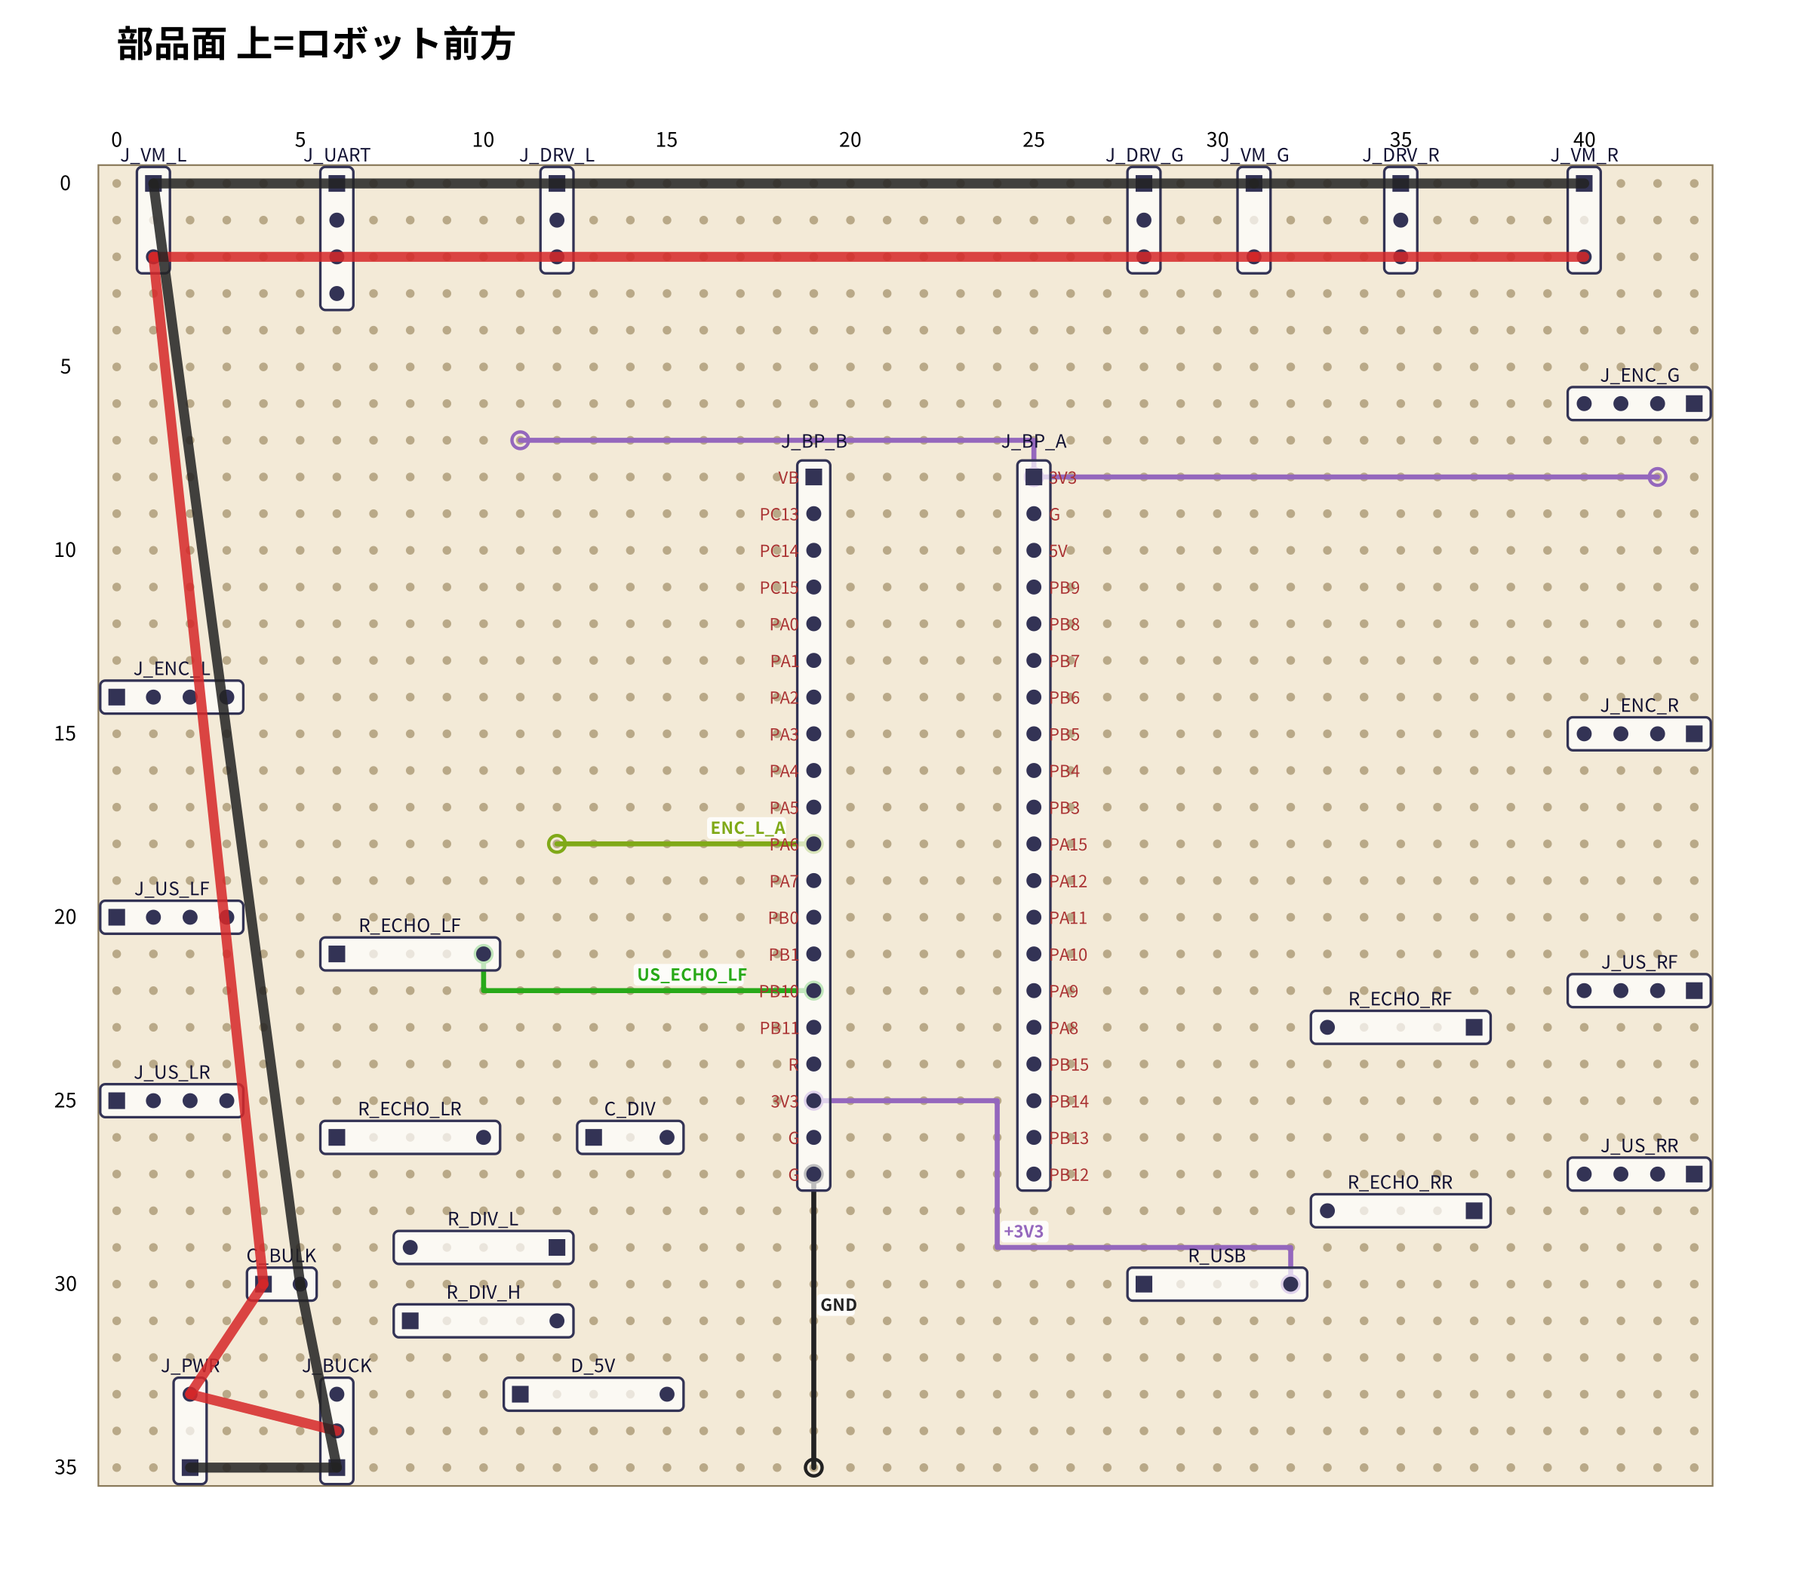
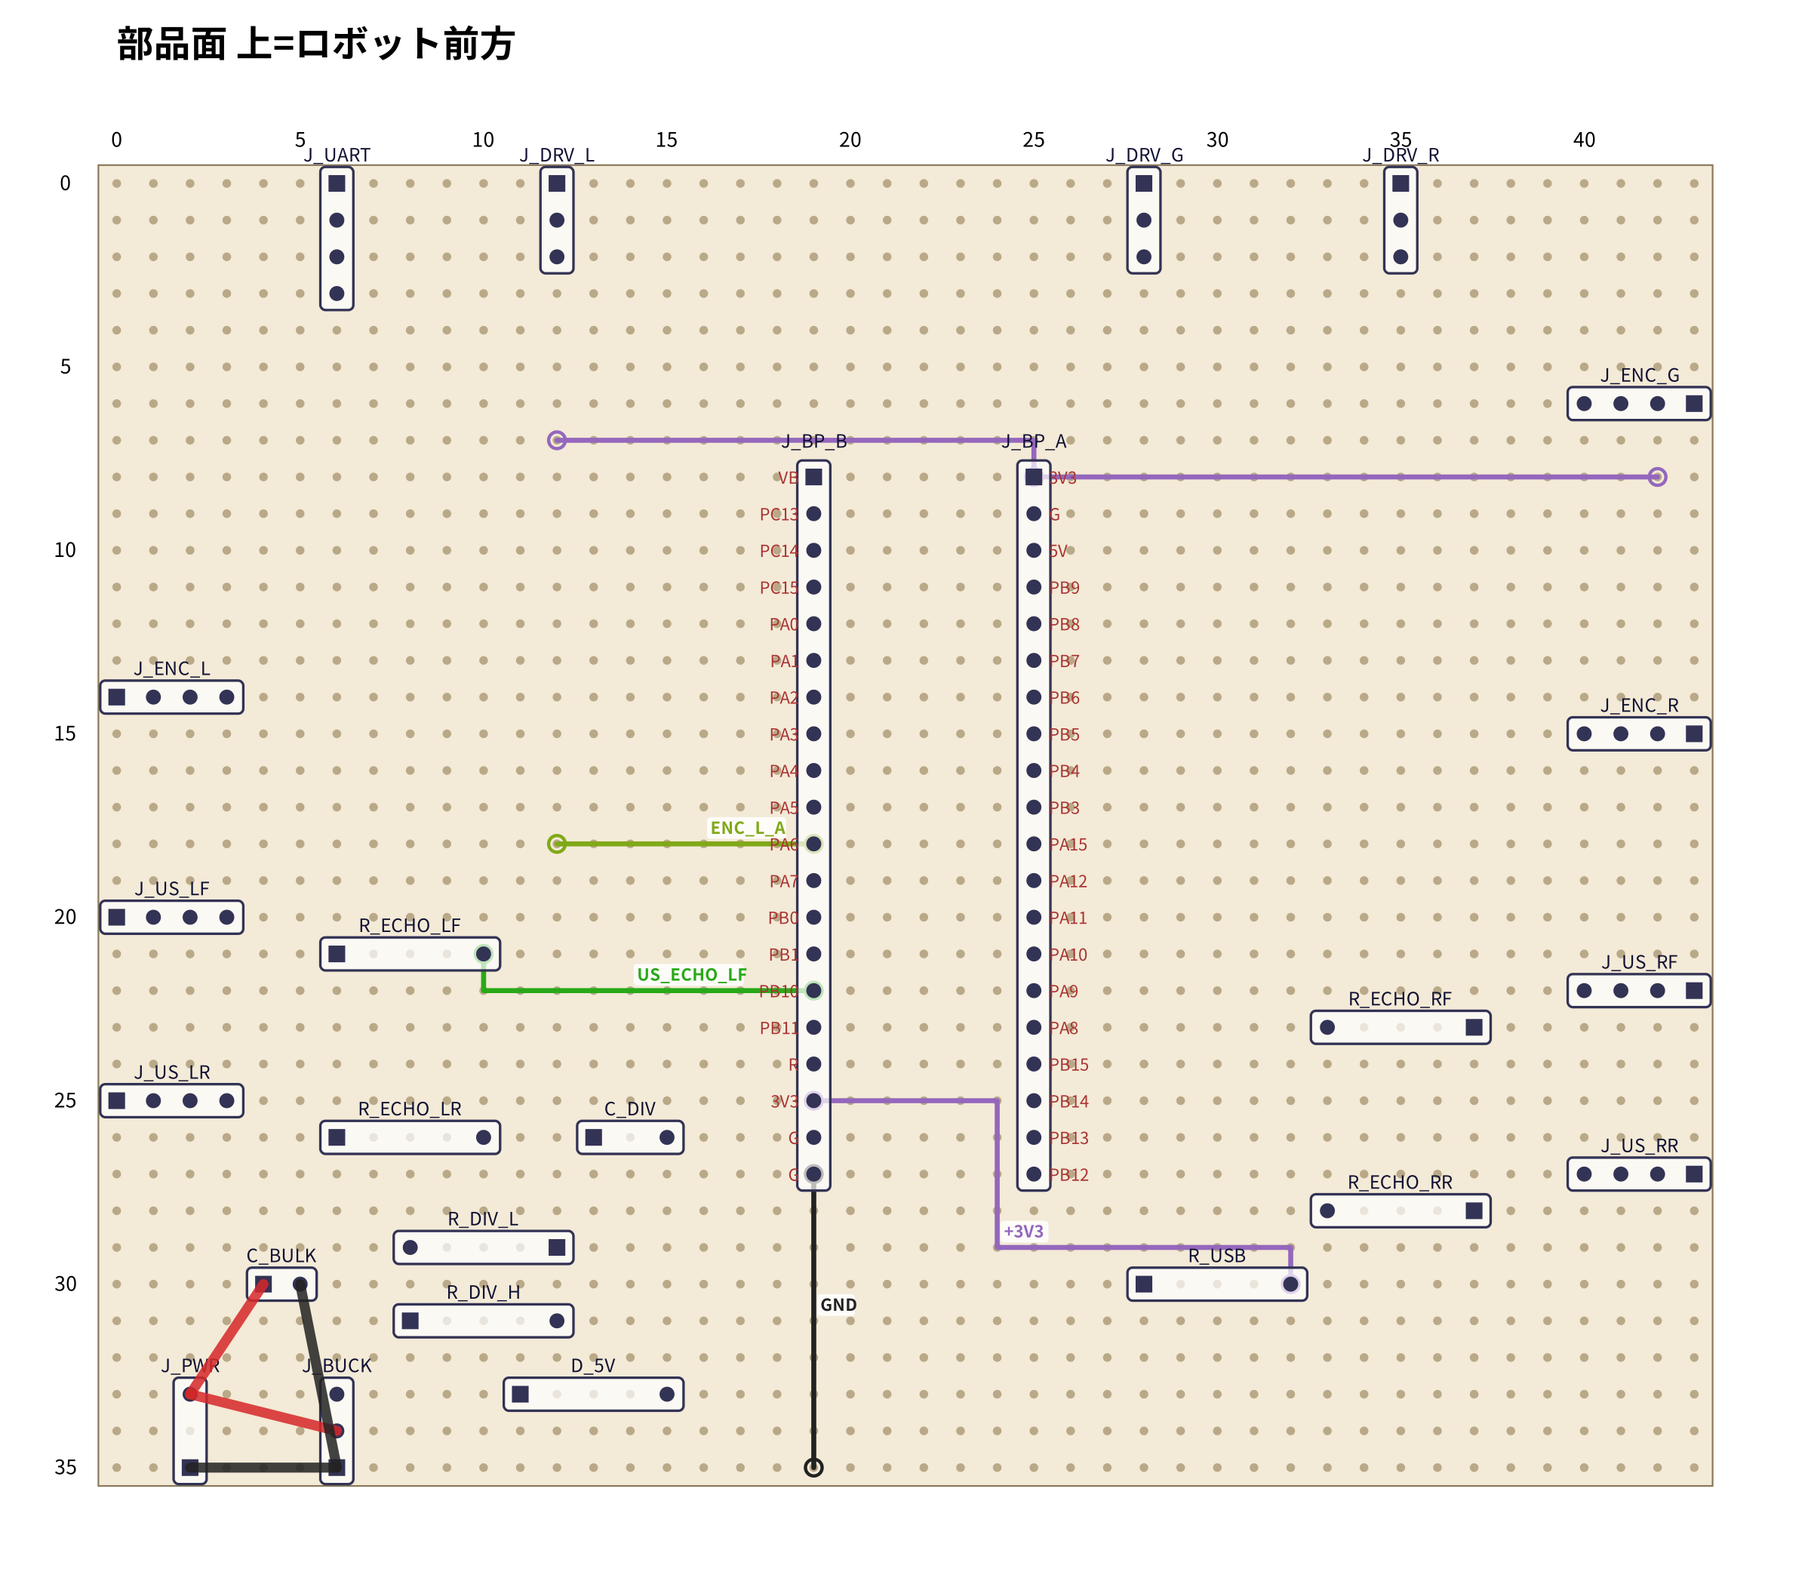
electrical: feed the drivers straight from the battery, not via the board
The DRV8871 modules take battery power on their own terminals, wired from
the branch after the e-stop. The board loses J_VM_L/G/R; its power input
now only feeds the buck module and the battery sense, so the AWG18 chain
shrinks to J_PWR, C_BULK and J_BUCK (4 wires instead of 10).

Claude-Session: https://claude.ai/code/session_01ENsByEFNd15FuMFFPy7PpL

Changed region(s): [[0.0625, 0.0929, 0.9062, 0.8051], [0.2812, 0.2477, 0.3125, 0.2787]]

diff --git a/electrical/netlist.py b/electrical/netlist.py
@@ -76,8 +76,6 @@ def _build_parts() -> list[Part]:
         _conn("J_PWR", "VBAT in", ["GND", "VBAT"], _TB2),
     ]
     for m in ("L", "R", "G"):
-        parts.append(_conn(f"J_VM_{m}", "Driver VM", ["GND", "VBAT"], _TB2))
-    for m in ("L", "R", "G"):
         parts.append(_conn(f"J_DRV_{m}", "Driver IN", ["GND", f"{m}_IN1", f"{m}_IN2"], _XH.format(n=3)))
     for m in ("L", "R", "G"):
         parts.append(_conn(f"J_ENC_{m}", "Encoder", ["GND", "+3V3", f"ENC_{m}_A", f"ENC_{m}_B"], _XH.format(n=4)))
@@ -133,13 +131,10 @@ PLACEMENT: dict[str, tuple[int, int, int]] = {
     "J_BP_B": (19, 8, 90),
     "J_BP_A": (25, 8, 90),
     # front edge (pins run toward the rear)
-    "J_VM_L": (1, 0, 90),
     "J_UART": (6, 0, 90),
     "J_DRV_L": (12, 0, 90),
     "J_DRV_G": (28, 0, 90),
-    "J_VM_G": (31, 0, 90),
     "J_DRV_R": (35, 0, 90),
-    "J_VM_R": (40, 0, 90),
     # left edge (pins run inward)
     "J_ENC_L": (0, 14, 0),
     "J_US_LF": (0, 20, 0),
@@ -166,7 +161,7 @@ PLACEMENT: dict[str, tuple[int, int, int]] = {
 }
 
 # Hole step between consecutive pin numbers.
-_PIN_STEP = {"J_PWR": 2, "J_VM_L": 2, "J_VM_R": 2, "J_VM_G": 2,
+_PIN_STEP = {"J_PWR": 2,
              "R_": 4, "D_5V": 4, "C_DIV": 2, "C_BULK": 1}
 
 _DIRS = {0: (1, 0), 90: (0, 1), 180: (-1, 0), 270: (0, -1)}

diff --git a/electrical/tests/test_perfboard.py b/electrical/tests/test_perfboard.py
@@ -21,7 +21,7 @@ def test_bluepill_rows_are_15_24mm_apart():
 
 def test_cable_connectors_on_board_edge():
     for p in PARTS:
-        if p.ref.startswith(("J_ENC", "J_US", "J_DRV", "J_VM", "J_PWR", "J_BUCK")):
+        if p.ref.startswith(("J_ENC", "J_US", "J_DRV", "J_PWR", "J_BUCK")):
             holes = [pin_hole(p.ref, pin) for pin in p.pins]
             assert any(c in (0, BOARD_HOLES[0] - 1) or r in (0, BOARD_HOLES[1] - 1) for c, r in holes), p.ref
 
@@ -30,7 +30,7 @@ def test_cable_connectors_have_ground_on_the_board_edge():
     # pin 1 of every cable connector is GND and sits on the perimeter, so one bare ring wire picks them all up
     cols, rows = BOARD_HOLES
     for p in PARTS:
-        if p.ref.startswith(("J_ENC", "J_US", "J_DRV", "J_VM", "J_PWR", "J_BUCK", "J_UART")):
+        if p.ref.startswith(("J_ENC", "J_US", "J_DRV", "J_PWR", "J_BUCK", "J_UART")):
             assert p.pins["1"] == "GND", p.ref
             c, r = pin_hole(p.ref, "1")
             assert c in (0, cols - 1) or r in (0, rows - 1), p.ref

diff --git a/electrical/route.py b/electrical/route.py
@@ -26,7 +26,7 @@ _LAYERS = (BOTTOM, TOP)
 
 HEAVY_NETS = ("VBAT", "GND")
 POWER_ROOT = "J_PWR"
-POWER_REFS = ("J_PWR", "J_VM_L", "J_VM_G", "J_VM_R", "J_BUCK", "C_BULK")
+POWER_REFS = ("J_PWR", "J_BUCK", "C_BULK")
 
 STEP_COST = {BOTTOM: 1.0, TOP: 1.4}  # prefer bare solder-side traces
 TURN_COST = 1.0
@@ -87,7 +87,7 @@ def top_keepout() -> set[Hole]:
         elif p.ref == "C_BULK":
             c, r = pins[0]
             out.update((c + dc, r + dr) for dc in range(-1, 3) for dr in range(-1, 2))  # 8mm can
-        elif p.ref.startswith(("J_PWR", "J_VM_")):
+        elif p.ref.startswith("J_PWR"):
             out.update(_widen(run, 2))                        # terminal block ~10mm wide
         elif p.ref.startswith(("J_DRV", "J_ENC", "J_US", "J_BUCK", "J_UART")):
             out.update(_widen(run, 1))                        # XH housing

diff --git a/electrical/gen_perfboard.py b/electrical/gen_perfboard.py
@@ -71,7 +71,7 @@ def _cable_section() -> list[str]:
              "基板側のピン1(□)は必ず GND で、基板の外周(GND の母線)側にある。ケーブルはこの順に圧着する。", "",
              "| コネクタ | 1 | 2 | 3 | 4 |", "|---|---|---|---|---|"]
     for p in sorted(PARTS, key=lambda p: p.ref):
-        if p.ref.startswith(("J_ENC", "J_US", "J_DRV", "J_VM", "J_PWR", "J_BUCK", "J_UART")):
+        if p.ref.startswith(("J_ENC", "J_US", "J_DRV", "J_PWR", "J_BUCK", "J_UART")):
             cells = [p.pins.get(str(i), "") for i in range(1, 5)]
             lines.append(f"| {p.ref}({p.value}) | " + " | ".join(cells) + " |")
     return lines + [""]

diff --git a/electrical/tests/test_route.py b/electrical/tests/test_route.py
@@ -104,7 +104,7 @@ def test_no_point_to_point_signal_wires():
 def test_power_wires_reach_every_power_pin():
     heavy_ends = {(j.net, h) for j in R.jumpers if j.gauge == "AWG18" for h in (j.a, j.b)}
     for p in PARTS:
-        if p.ref in ("J_PWR", "J_VM_L", "J_VM_R", "J_VM_G", "J_BUCK", "C_BULK"):
+        if p.ref in ("J_PWR", "J_BUCK", "C_BULK"):
             for pin, net in p.pins.items():
                 if net in HEAVY_NETS:
                     assert (net, pin_hole(p.ref, pin)) in heavy_ends, (p.ref, pin)

diff --git a/electrical/perfboard.md b/electrical/perfboard.md
@@ -26,9 +26,6 @@
 | J_US_LR(HC-SR04) | GND | +5V | US_TRIG_LR | US_ECHO_LR_RAW |
 | J_US_RF(HC-SR04) | GND | +5V | US_TRIG_RF | US_ECHO_RF_RAW |
 | J_US_RR(HC-SR04) | GND | +5V | US_TRIG_RR | US_ECHO_RR_RAW |
-| J_VM_G(Driver VM) | GND | VBAT |  |  |
-| J_VM_L(Driver VM) | GND | VBAT |  |  |
-| J_VM_R(Driver VM) | GND | VBAT |  |  |
 
 ## 部品配置
 
@@ -54,9 +51,6 @@
 | J_US_LR | HC-SR04 | (0,25) | 0 |
 | J_US_RF | HC-SR04 | (43,22) | 180 |
 | J_US_RR | HC-SR04 | (43,27) | 180 |
-| J_VM_G | Driver VM | (31,0) | 90 |
-| J_VM_L | Driver VM | (1,0) | 90 |
-| J_VM_R | Driver VM | (40,0) | 90 |
 | R_DIV_H | 47k | (8,31) | 0 |
 | R_DIV_L | 10k | (12,29) | 180 |
 | R_ECHO_LF | 1k | (6,21) | 0 |
@@ -69,7 +63,7 @@
 
 作業順:(1)部品面の太線、(2)はんだ面の裸配線(すずめっき線を穴に沿って這わせ、通る穴ごとにはんだ付け)、(3)部品面の被覆線(AWG26 またはポリウレタン線を穴の列に沿って這わせ、両端だけ穴に通してはんだ付け。被覆線どうしは直角に交差してよい)。被覆線の端が部品のピン以外の穴にあるところは、はんだ面の裸配線との乗り換え点。図は `images/perfboard_top.png`、`images/perfboard_bottom.png`(はんだ面は左右反転)。
 
-裸配線 43 本、被覆線 6 本、太線 10 本。
+裸配線 43 本、被覆線 6 本、太線 4 本。
 
 ### (1) 部品面の太線(AWG18、端子間を数珠つなぎ)
 
@@ -77,21 +71,15 @@
 |---|---|---|---|
 | ☐ | VBAT | (2,33) | (4,30) |
 | ☐ | VBAT | (2,33) | (6,34) |
-| ☐ | VBAT | (4,30) | (1,2) |
-| ☐ | VBAT | (1,2) | (31,2) |
-| ☐ | VBAT | (31,2) | (40,2) |
 | ☐ | GND | (2,35) | (6,35) |
 | ☐ | GND | (6,35) | (5,30) |
-| ☐ | GND | (5,30) | (1,0) |
-| ☐ | GND | (1,0) | (31,0) |
-| ☐ | GND | (31,0) | (40,0) |
 
 ### (2) はんだ面の裸配線
 
 | ✓ | ネット | 経路(角の穴) |
 |---|---|---|
-| ☐ | +3V3 | (6,1) → (2,1) → (2,13) → (1,13) → (1,14) |
-| ☐ | +3V3 | (11,7) → (11,1) → (6,1) |
+| ☐ | +3V3 | (6,1) → (1,1) → (1,14) |
+| ☐ | +3V3 | (12,7) → (9,7) → (9,1) → (6,1) |
 | ☐ | +3V3 | (42,8) → (42,6) |
 | ☐ | +3V3 | (42,8) → (42,15) |
 | ☐ | +5V | (1,20) → (1,25) |
@@ -100,8 +88,8 @@
 | ☐ | +5V | (15,33) → (42,33) → (42,27) |
 | ☐ | +5V | (42,27) → (42,22) |
 | ☐ | +5V_BP | (11,33) → (13,33) → (13,31) → (23,31) → (23,10) → (25,10) |
-| ☐ | ENC_G_A | (25,16) → (34,16) → (34,15) → (35,15) → (35,9) → (36,9) → (36,5) → (41,5) → (41,6) |
-| ☐ | ENC_G_B | (25,17) → (37,17) → (37,11) → (40,11) → (40,6) |
+| ☐ | ENC_G_A | (25,16) → (34,16) → (34,9) → (36,9) → (36,5) → (41,5) → (41,6) |
+| ☐ | ENC_G_B | (25,17) → (38,17) → (38,6) → (40,6) |
 | ☐ | ENC_L_A | (2,14) → (2,18) → (12,18) |
 | ☐ | ENC_L_B | (3,14) → (3,16) → (18,16) → (18,19) → (19,19) |
 | ☐ | ENC_R_A | (25,23) → (27,23) → (27,20) → (41,20) → (41,15) |
@@ -109,14 +97,14 @@
 | ☐ | GND | (0,0) → (43,0) → (43,35) → (0,35) → (0,1) |
 | ☐ | GND | (5,30) → (8,30) → (8,29) |
 | ☐ | GND | (19,27) → (15,27) → (15,26) |
-| ☐ | G_IN1 | (25,11) → (26,11) → (26,1) → (28,1) |
-| ☐ | G_IN2 | (25,12) → (27,12) → (27,2) → (28,2) |
-| ☐ | L_IN1 | (12,1) → (18,1) → (18,12) → (19,12) |
+| ☐ | G_IN1 | (25,11) → (27,11) → (27,1) → (28,1) |
+| ☐ | G_IN2 | (25,12) → (28,12) → (28,2) |
+| ☐ | L_IN1 | (12,1) → (14,1) → (14,6) → (15,6) → (15,12) → (19,12) |
 | ☐ | L_IN2 | (12,2) → (13,2) → (13,13) → (19,13) |
-| ☐ | R_IN1 | (25,13) → (32,13) → (32,1) → (35,1) |
-| ☐ | R_IN2 | (25,14) → (34,14) → (34,2) → (35,2) |
-| ☐ | UART_RX | (6,3) → (8,3) → (8,15) → (19,15) |
-| ☐ | UART_TX | (6,2) → (10,2) → (10,14) → (19,14) |
+| ☐ | R_IN1 | (25,13) → (31,13) → (31,1) → (35,1) |
+| ☐ | R_IN2 | (25,14) → (33,14) → (33,2) → (35,2) |
+| ☐ | UART_RX | (6,3) → (5,3) → (5,15) → (19,15) |
+| ☐ | UART_TX | (6,2) → (7,2) → (7,14) → (19,14) |
 | ☐ | USB_DP | (25,19) → (24,19) → (24,30) → (28,30) |
 | ☐ | US_ECHO_LF_RAW | (3,20) → (3,21) → (6,21) |
 | ☐ | US_ECHO_LR | (10,26) → (10,25) → (18,25) → (18,23) → (19,23) |
@@ -139,7 +127,7 @@
 | ✓ | ネット | 経路(角の穴、両端だけ穴に通す) |
 |---|---|---|
 | ☐ | +3V3 | (19,25) → (24,25) → (24,29) → (32,29) → (32,30) |
-| ☐ | +3V3 | (25,8) → (25,7) → (11,7) |
+| ☐ | +3V3 | (25,8) → (25,7) → (12,7) |
 | ☐ | +3V3 | (25,8) → (42,8) |
 | ☐ | ENC_L_A | (12,18) → (19,18) |
 | ☐ | GND | (19,35) → (19,27) |
@@ -180,16 +168,13 @@
 | ☐ | GND | J_BP_B.19 @ (19,26) | J_BP_B.20 @ (19,27) | 太線 |
 | ☐ | GND | J_BP_B.20 @ (19,27) | J_BP_A.2 @ (25,9) | 太線 |
 | ☐ | GND | J_BP_A.2 @ (25,9) | J_DRV_G.1 @ (28,0) | 太線 |
-| ☐ | GND | J_DRV_G.1 @ (28,0) | J_VM_G.1 @ (31,0) | 太線 |
-| ☐ | GND | J_VM_G.1 @ (31,0) | J_DRV_R.1 @ (35,0) | 太線 |
-| ☐ | GND | J_DRV_R.1 @ (35,0) | J_VM_R.1 @ (40,0) | 太線 |
-| ☐ | GND | J_VM_R.1 @ (40,0) | J_ENC_G.1 @ (43,6) | 太線 |
+| ☐ | GND | J_DRV_G.1 @ (28,0) | J_DRV_R.1 @ (35,0) | 太線 |
+| ☐ | GND | J_DRV_R.1 @ (35,0) | J_ENC_G.1 @ (43,6) | 太線 |
 | ☐ | GND | J_ENC_G.1 @ (43,6) | J_ENC_R.1 @ (43,15) | 太線 |
 | ☐ | GND | J_ENC_R.1 @ (43,15) | J_US_RF.1 @ (43,22) | 太線 |
 | ☐ | GND | J_US_RF.1 @ (43,22) | J_US_RR.1 @ (43,27) | 太線 |
 | ☐ | GND | J_US_RR.1 @ (43,27) | J_DRV_L.1 @ (12,0) | 太線 |
 | ☐ | GND | J_DRV_L.1 @ (12,0) | J_UART.1 @ (6,0) | 太線 |
-| ☐ | GND | J_UART.1 @ (6,0) | J_VM_L.1 @ (1,0) | 太線 |
 | ☐ | G_IN1 | J_BP_A.4 @ (25,11) | J_DRV_G.2 @ (28,1) | 細線 |
 | ☐ | G_IN2 | J_BP_A.5 @ (25,12) | J_DRV_G.3 @ (28,2) | 細線 |
 | ☐ | L_IN1 | J_DRV_L.2 @ (12,1) | J_BP_B.5 @ (19,12) | 細線 |
@@ -211,12 +196,9 @@
 | ☐ | US_TRIG_LR | J_US_LR.3 @ (2,25) | J_BP_B.14 @ (19,21) | 細線 |
 | ☐ | US_TRIG_RF | J_BP_A.17 @ (25,24) | J_US_RF.3 @ (41,22) | 細線 |
 | ☐ | US_TRIG_RR | J_BP_A.19 @ (25,26) | J_US_RR.3 @ (41,27) | 細線 |
-| ☐ | VBAT | J_VM_L.2 @ (1,2) | J_VM_G.2 @ (31,2) | 太線 |
-| ☐ | VBAT | J_VM_G.2 @ (31,2) | J_VM_R.2 @ (40,2) | 太線 |
-| ☐ | VBAT | J_VM_R.2 @ (40,2) | R_DIV_H.1 @ (8,31) | 太線 |
-| ☐ | VBAT | R_DIV_H.1 @ (8,31) | C_BULK.1 @ (4,30) | 太線 |
-| ☐ | VBAT | C_BULK.1 @ (4,30) | J_PWR.2 @ (2,33) | 太線 |
-| ☐ | VBAT | J_PWR.2 @ (2,33) | J_BUCK.2 @ (6,34) | 太線 |
+| ☐ | VBAT | J_PWR.2 @ (2,33) | C_BULK.1 @ (4,30) | 太線 |
+| ☐ | VBAT | C_BULK.1 @ (4,30) | R_DIV_H.1 @ (8,31) | 太線 |
+| ☐ | VBAT | R_DIV_H.1 @ (8,31) | J_BUCK.2 @ (6,34) | 太線 |
 | ☐ | VBAT_SENSE | R_DIV_L.1 @ (12,29) | R_DIV_H.2 @ (12,31) | 細線 |
 | ☐ | VBAT_SENSE | R_DIV_H.2 @ (12,31) | C_DIV.1 @ (13,26) | 細線 |
 | ☐ | VBAT_SENSE | C_DIV.1 @ (13,26) | J_BP_B.9 @ (19,16) | 細線 |

diff --git a/docs/superpowers/specs/2026-10-15-carrier-robot-design.md b/docs/superpowers/specs/2026-10-15-carrier-robot-design.md
@@ -131,7 +131,8 @@
 
 1. LiPo 3S → XT60 → 平形ヒューズ 10A → メインスイッチ → 非常停止ボタン(NC 接点。電源ラインに直列で、全電源を遮断する)
 2. その先で次の2系統に分ける。
-   - モーター系:バッテリー電圧を直接 DRV8871 × 3 に供給する。電源ラインに 470µF/25V の電解コンデンサを付ける。
+   - モーター系:非常停止の先で分岐し、バッテリー電圧を各 DRV8871 モジュールの電源端子に直接配線する(基板は通さない)。
+   - 基板:別の1本で基板の電源入力(J_PWR)に入れ、降圧モジュールと電池電圧の測定に使う。基板上に 470µF/25V の電解コンデンサを付ける。
    - 5V 系:降圧モジュール(MP1584、5.0V に調整)から、超音波センサー4個に直接供給する。Bluepill 5V ピンにはショットキーダイオード(SS34 など)を通して供給する。
 
 - 3S を選ぶ理由:JGA25-370(12V)と電圧が合う。4S 以上は停止時の電流と発熱が増えるだけで利点がない。5分の試合での消費は約 170mAh の見込みで、容量は 1000〜2200mAh で足りる。
@@ -184,10 +185,10 @@
 - 大会版は **ユニバーサル基板**(44 × 36 穴、約 112 × 91mm。115 × 95mm 級の基板に収まる)に手配線で作る。配線ははんだ面の裸配線と、部品面の被覆線(穴の列に沿わせ、両端だけ穴に通す。直角の交差は可)の2層で、すべて格子に沿って引く。電源の太線(AWG18)は端子間を数珠つなぎにする。GND は母線方式とし、はんだ面の外周に裸線のリングを一周させる。ケーブル用コネクタはすべて基板の縁に直角に立て、1番ピンを GND にして外周の穴に置く。これで各コネクタの GND がリングに直接つながる。基板上の部品は Bluepill 用ソケット、コネクタ、ダイオード、抵抗、コンデンサだけで、ほぼ1対1の結線のため。発注待ちのリスクもなくなる。
 - 回路図は KiCad で作り、kicad-cli の ERC で誤りを確認する。プリント基板の設計と発注は大会後の次版で行い、この回路図を使い回す。
 - ユニバーサル基板の部品配置(2.54mm 格子の座標)と結線表を文書にし、配線とテスターによる導通確認はこれに沿って行う。
-- バッテリーからドライバへの太い電源線は基板を通さず、ネジ端子間を直接配線する。
+- バッテリーからドライバへの太い電源線は基板を通さず、非常停止の先の分岐から各ドライバモジュールへ直接配線する。基板に入る電源は降圧モジュールと電池電圧測定の分だけになる。
 - 配線はすずめっき線またはポリウレタン線で短く引き回し、コネクタはホットボンドで補強する。
 - Bluepill はピンソケットに差し込む。DRV8871 モジュールと降圧モジュールは基板に載せず、ケーブルでつなぐ(部品の到着前にピン配置を確定できないため)。
-- コネクタ:電源入力と各ドライバへの電源出力はネジ端子(5.08mm)。ピン順はすべて1番が GND。ドライバへの信号は XH 3P(GND、IN1、IN2)、エンコーダは XH 4P(GND、3.3V、A、B)、超音波センサーは XH 4P(GND、5V、TRIG、ECHO)、降圧モジュールは XH 3P(GND、VBAT、5V。MP1584 の IN- と OUT- は共通なので GND は1本)。ネジ端子は(GND、VBAT)。予備の UART 用の端子も設ける。
+- コネクタ:電源入力はネジ端子(5.08mm)。ピン順はすべて1番が GND。ドライバへの信号は XH 3P(GND、IN1、IN2)、エンコーダは XH 4P(GND、3.3V、A、B)、超音波センサーは XH 4P(GND、5V、TRIG、ECHO)、降圧モジュールは XH 3P(GND、VBAT、5V。MP1584 の IN- と OUT- は共通なので GND は1本)。ネジ端子は(GND、VBAT)。予備の UART 用の端子も設ける。
 
 ## 6. ファームウェア設計
 
